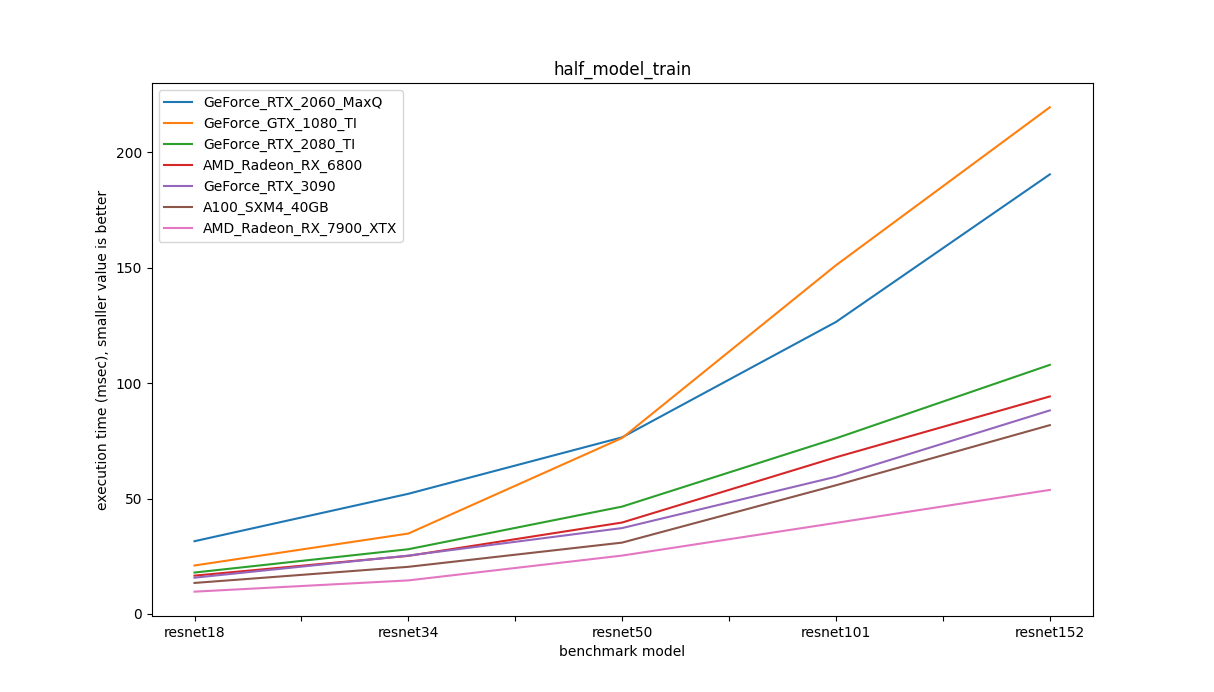
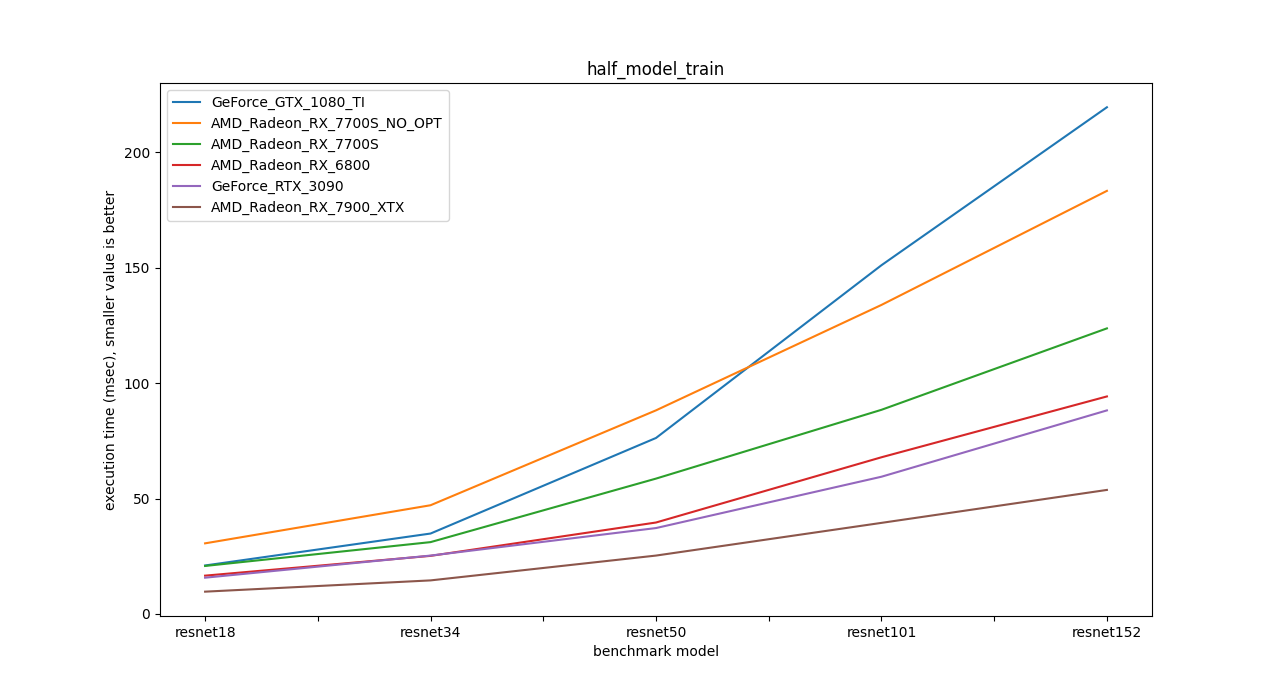
show benchmark results with new pytorch optimization for 7700S
- latest rocm sdk builder has pytorch optimization in aotriton
  provided flash attenation algorithm for gfx1100/gfx1101/gfx1102
  and gfx1103.

diff --git a/plot_benchmark_results.py b/plot_benchmark_results.py
@@ -17,8 +17,9 @@ def num_sort(test_string):
 #"results/Nvidia/GeForce_GTX_1080_TI/GeForce_GTX_1080_TI__half_model_training_benchmark.csv",
 #"results/Nvidia/GeForce_RTX_2080_TI/GeForce_RTX_2080_TI__half_model_training_benchmark.csv",
 #"results/AMD/AMD_Radeon_780M/AMD_Radeon_780M__half_model_train_benchmark.csv",
+#"results/Nvidia/GeForce_RTX_2080_TI/GeForce_RTX_2080_TI__half_model_training_benchmark.csv",
+#"results/Nvidia/GeForce_RTX_2060_MaxQ/GeForce_RTX_2060_MaxQ__half_model_train_benchmark.csv",
 
-#                 "results/Nvidia/GeForce_RTX_2060_MaxQ/GeForce_RTX_2060_MaxQ__half_model_train_benchmark.csv",
 _result_filename_arr = [
                 "results/Nvidia/GeForce_GTX_1080_TI/GeForce_GTX_1080_TI__half_model_training_benchmark.csv",
                 "results/AMD/AMD_Radeon_RX_7700S_NO_OPT/AMD_Radeon_RX_7700S_NO_OPT__half_model_train_benchmark.csv",
